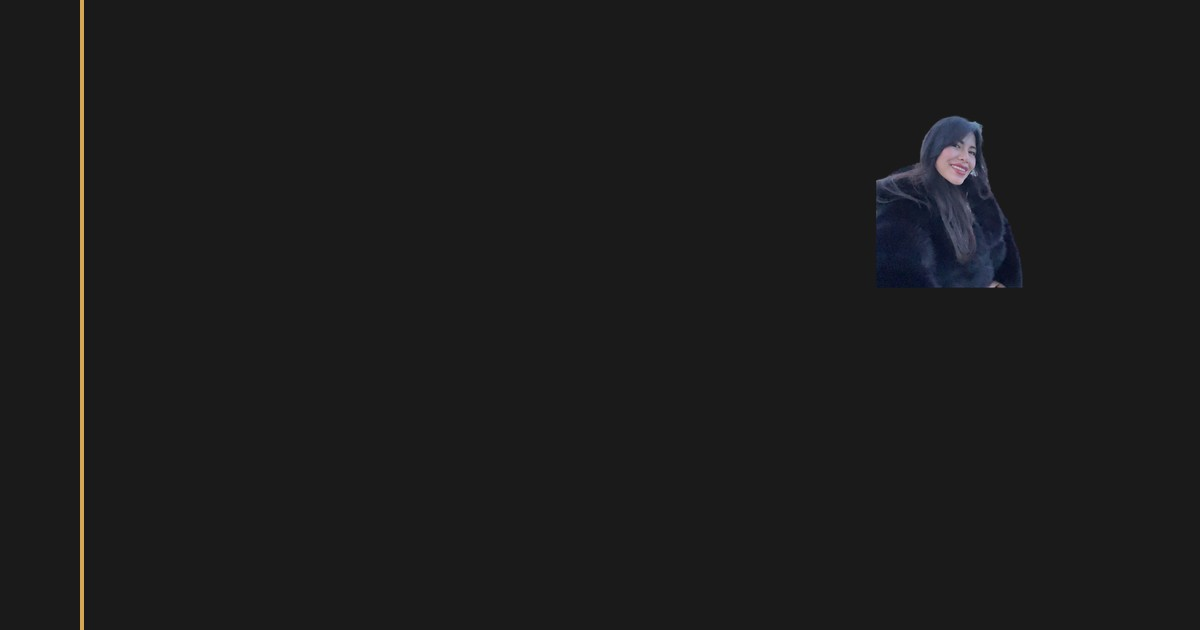
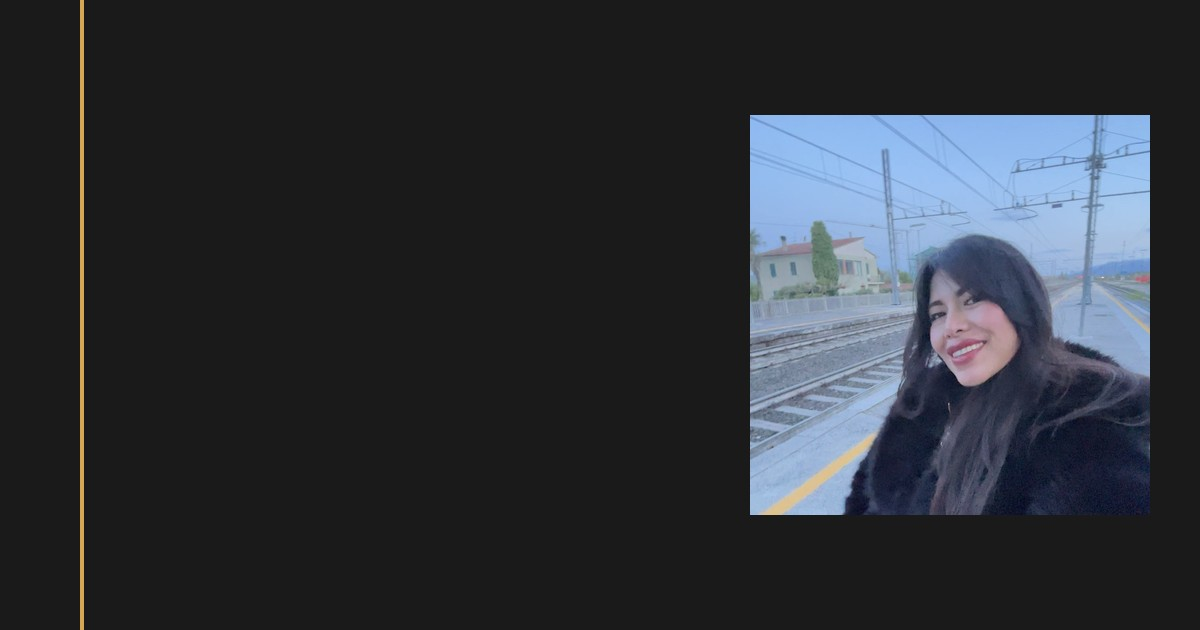
Updates

Changed region(s): [[0.6167, 0.181, 0.9558, 0.8444]]

diff --git a/index.html b/index.html
@@ -1,6 +1,6 @@
 <!DOCTYPE html><html lang="it" style="--color-primary-dark:#1A1A1A;--color-primary:#8B7355;--color-primary-light:#C4A77D;--color-accent:#D4A853;--color-surface:#F5F0E8;--color-surface-light:#FAF7F2"> <head><meta charset="utf-8"><link rel="icon" type="image/svg+xml" href="/favicon.svg"><meta name="viewport" content="width=device-width"><meta name="generator" content="Astro v5.17.1"><meta name="description" content="Drusila Miranda — Strategia creativa, UGC e Meta Ads per far crescere il tuo brand in Italia e America Latina."><!-- Open Graph --><meta property="og:title" content="Drusila Miranda — Creative Strategist &#38; UGC Creator"><meta property="og:description" content="Drusila Miranda — Strategia creativa, UGC e Meta Ads per far crescere il tuo brand in Italia e America Latina."><meta property="og:type" content="website"><meta property="og:image" content="/og.jpg"><!-- Fonts: Playfair Display + Inter --><link rel="preconnect" href="https://fonts.googleapis.com"><link rel="preconnect" href="https://fonts.gstatic.com" crossorigin><link href="https://fonts.googleapis.com/css2?family=Inter:wght@300;400;500;600;700&family=Playfair+Display:ital,wght@0,400;0,500;0,600;0,700;0,800;1,400;1,500;1,600&display=swap" rel="stylesheet"><title>Drusila Miranda — Creative Strategist &amp; UGC Creator</title><link rel="stylesheet" href="/_astro/index.CY908Prx.css"></head> <body class="bg-[var(--color-surface-light)]"> <!-- Floating pill nav — appears on scroll --><nav id="floating-nav" class="fixed top-0 left-1/2 -translate-x-1/2 z-50 hidden opacity-0"> <div class="mt-4 px-6 py-3 rounded-full border border-[var(--color-primary-light)]/30 bg-[var(--color-surface-light)]/90 backdrop-blur-md shadow-lg flex items-center gap-6"> <a href="#" class="font-['Playfair_Display',serif] font-bold text-[var(--color-primary-dark)] text-sm">DM</a> <div class="hidden sm:flex items-center gap-4 text-sm text-[var(--color-primary)]"> <a href="#servizi" class="link-underline hover:text-[var(--color-primary-dark)] transition-colors" data-lang data-it="Servizi" data-es="Servicios">Servizi</a> <a href="#metodo" class="link-underline hover:text-[var(--color-primary-dark)] transition-colors" data-lang data-it="Metodo" data-es="Método">Metodo</a> <a href="#portfolio" class="link-underline hover:text-[var(--color-primary-dark)] transition-colors">Portfolio</a> <a href="#contatto" class="link-underline hover:text-[var(--color-primary-dark)] transition-colors" data-lang data-it="Contatto" data-es="Contacto">Contatto</a> </div> <!-- Language Toggle --> <button id="lang-toggle" class="ml-2 flex items-center gap-1 text-xs font-semibold border border-[var(--color-primary-light)]/40 rounded-full px-3 py-1 hover:border-[var(--color-accent)] transition-colors"> <span id="lang-label-it" class="text-[var(--color-accent)]">IT</span> <span class="text-[var(--color-primary-light)]">/</span> <span id="lang-label-es" class="text-[var(--color-primary)]">ES</span> </button> </div> </nav> <script type="module">const a=document.getElementById("floating-nav");window.addEventListener("scroll",()=>{window.scrollY>400?(a?.classList.remove("hidden"),a?.classList.add("header-visible")):(a?.classList.add("hidden"),a?.classList.remove("header-visible"))});let t="it";const o=document.getElementById("lang-toggle"),s=document.getElementById("lang-label-it"),c=document.getElementById("lang-label-es");o?.addEventListener("click",()=>{document.body.classList.add("lang-switching"),setTimeout(()=>{t=t==="it"?"es":"it",document.querySelectorAll("[data-lang]").forEach(e=>{const l=e.getAttribute("data-it"),n=e.getAttribute("data-es");l&&n&&(e.textContent=t==="it"?l:n)}),s&&c&&(s.className=t==="it"?"text-[var(--color-accent)]":"text-[var(--color-primary)]",c.className=t==="es"?"text-[var(--color-accent)]":"text-[var(--color-primary)]"),document.documentElement.lang=t,document.body.classList.remove("lang-switching")},200)});</script> <main> <section id="hero" class="min-h-screen flex items-center bg-[var(--color-surface-light)] relative overflow-hidden"> <!-- Subtle gold gradient accent --> <div class="absolute top-0 right-0 w-1/2 h-full bg-gradient-to-l from-[var(--color-surface)] to-transparent opacity-60 pointer-events-none"></div> <div class="max-w-6xl mx-auto px-6 py-20 md:py-0 w-full"> <div class="grid md:grid-cols-2 gap-12 md:gap-16 items-center"> <!-- Text column --> <div class="order-2 md:order-1"> <!-- Inline lang toggle for mobile (before scroll) --> <div class="mb-8 md:mb-10"> <button id="hero-lang-toggle" class="flex items-center gap-1 text-xs font-semibold border border-[var(--color-primary-light)]/40 rounded-full px-4 py-1.5 hover:border-[var(--color-accent)] transition-colors hero-cta"> <span class="hero-lang-it text-[var(--color-accent)]">IT</span> <span class="text-[var(--color-primary-light)]">/</span> <span class="hero-lang-es text-[var(--color-primary)]">ES</span> </button> </div> <p class="text-[var(--color-primary)] text-sm tracking-widest uppercase mb-3 hero-subtitle">Creative Strategist & UGC Creator</p> <h1 class="font-['Playfair_Display',serif] text-4xl sm:text-5xl md:text-6xl font-bold text-[var(--color-primary-dark)] leading-tight mb-6 hero-title">
 Drusila<br>Miranda
-</h1> <p class="font-['Playfair_Display',serif] italic text-lg md:text-xl text-[var(--color-primary)] mb-8 hero-tagline" data-lang data-it="Strategia e creatività per far crescere il tuo brand." data-es="Estrategia y creatividad para hacer crecer tu marca."> Strategia e creatività per far crescere il tuo brand. </p> <a href="#contatto" class="inline-flex items-center gap-2 bg-[var(--color-primary-dark)] text-[var(--color-surface-light)] px-8 py-3.5 rounded-full text-sm font-medium tracking-wide btn-hover hero-cta hover:bg-[var(--color-accent)] transition-colors"> <span data-lang data-it="Parliamo" data-es="Hablemos">Parliamo</span> <svg class="w-4 h-4" fill="none" stroke="currentColor" viewBox="0 0 24 24"><path stroke-linecap="round" stroke-linejoin="round" stroke-width="2" d="M17 8l4 4m0 0l-4 4m4-4H3"></path></svg> </a> <!-- Social row --> <div class="flex items-center gap-4 mt-8 hero-cta"> <a href="https://instagram.com/drusilla_miranda" target="_blank" rel="noopener" class="text-[var(--color-primary)] hover:text-[var(--color-accent)] transition-colors" aria-label="Instagram"> <svg class="w-5 h-5" fill="currentColor" viewBox="0 0 24 24"><path d="M12 2.163c3.204 0 3.584.012 4.85.07 3.252.148 4.771 1.691 4.919 4.919.058 1.265.069 1.645.069 4.849 0 3.205-.012 3.584-.069 4.849-.149 3.225-1.664 4.771-4.919 4.919-1.266.058-1.644.07-4.85.07-3.204 0-3.584-.012-4.849-.07-3.26-.149-4.771-1.699-4.919-4.92-.058-1.265-.07-1.644-.07-4.849 0-3.204.013-3.583.07-4.849.149-3.227 1.664-4.771 4.919-4.919 1.266-.057 1.645-.069 4.849-.069zM12 0C8.741 0 8.333.014 7.053.072 2.695.272.273 2.69.073 7.052.014 8.333 0 8.741 0 12c0 3.259.014 3.668.072 4.948.2 4.358 2.618 6.78 6.98 6.98C8.333 23.986 8.741 24 12 24c3.259 0 3.668-.014 4.948-.072 4.354-.2 6.782-2.618 6.979-6.98.059-1.28.073-1.689.073-4.948 0-3.259-.014-3.667-.072-4.947-.196-4.354-2.617-6.78-6.979-6.98C15.668.014 15.259 0 12 0zm0 5.838a6.162 6.162 0 100 12.324 6.162 6.162 0 000-12.324zM12 16a4 4 0 110-8 4 4 0 010 8zm6.406-11.845a1.44 1.44 0 100 2.881 1.44 1.44 0 000-2.881z"></path></svg> </a> <a href="https://tiktok.com/@pameladlcm" target="_blank" rel="noopener" class="text-[var(--color-primary)] hover:text-[var(--color-accent)] transition-colors" aria-label="TikTok"> <svg class="w-5 h-5" fill="currentColor" viewBox="0 0 24 24"><path d="M19.59 6.69a4.83 4.83 0 01-3.77-4.25V2h-3.45v13.67a2.89 2.89 0 01-2.88 2.5 2.89 2.89 0 01-2.89-2.89 2.89 2.89 0 012.89-2.89c.28 0 .54.04.79.1v-3.5a6.37 6.37 0 00-.79-.05A6.34 6.34 0 003.15 15.2a6.34 6.34 0 0010.86 4.48V13a8.28 8.28 0 005.58 2.16v-3.45a4.85 4.85 0 01-2.65-.78l.01.01v-4.25h2.64z"></path></svg> </a> <a href="mailto:Drusilamiranda.creator@gmail.com" class="text-[var(--color-primary)] hover:text-[var(--color-accent)] transition-colors" aria-label="Email"> <svg class="w-5 h-5" fill="none" stroke="currentColor" viewBox="0 0 24 24"><path stroke-linecap="round" stroke-linejoin="round" stroke-width="2" d="M3 8l7.89 5.26a2 2 0 002.22 0L21 8M5 19h14a2 2 0 002-2V7a2 2 0 00-2-2H5a2 2 0 00-2 2v10a2 2 0 002 2z"></path></svg> </a> </div> </div> <!-- Photo column --> <div class="order-1 md:order-2 flex justify-center"> <div class="relative hero-photo"> <div class="w-64 h-64 sm:w-72 sm:h-72 md:w-80 md:h-80 rounded-full overflow-hidden photo-ring"> <img src="/profile.png" alt="Drusila Miranda" class="w-full h-full object-cover" loading="eager"> </div> <!-- Decorative gold dot --> <div class="absolute -bottom-2 -right-2 w-6 h-6 rounded-full bg-[var(--color-accent)]"></div> </div> </div> </div> </div> </section> <script type="module">const o=document.getElementById("hero-lang-toggle");let t="it";o?.addEventListener("click",()=>{const n=document.getElementById("lang-toggle");n?n.click():(document.body.classList.add("lang-switching"),setTimeout(()=>{t=t==="it"?"es":"it",document.querySelectorAll("[data-lang]").forEach(e=>{const i=e.getAttribute("data-it"),r=e.getAttribute("data-es");i&&r&&(e.textContent=t==="it"?i:r)}),document.documentElement.lang=t,document.body.classList.remove("lang-switching")},200));const a=o?.querySelector(".hero-lang-it"),c=o?.querySelector(".hero-lang-es"),l=t==="it"?"es":"it";a&&(a.className=`hero-lang-it ${l==="it"?"text-[var(--color-accent)]":"text-[var(--color-primary)]"}`),c&&(c.className=`hero-lang-es ${l==="es"?"text-[var(--color-accent)]":"text-[var(--color-primary)]"}`)});</script> <section id="chi-sono" class="py-20 md:py-28 bg-white"> <div class="max-w-5xl mx-auto px-6"> <div class="grid md:grid-cols-3 gap-10 md:gap-16 items-start"> <!-- Title column --> <div class="reveal-left"> <p class="text-[var(--color-accent)] text-xs tracking-widest uppercase mb-3 font-semibold" data-lang data-it="Chi Sono" data-es="Sobre Mí">Chi Sono</p> <div class="w-12 h-0.5 bar-shimmer rounded-full"></div> </div> <!-- Bio column --> <div class="md:col-span-1 reveal stagger-1"> <p class="text-[var(--color-primary-dark)]/80 leading-relaxed text-base" data-lang data-it="Sono una creative strategist e content creator peruviana che vive in Italia. Unisco la creatività latina con la raffinatezza europea per creare strategie di comunicazione che connettono brand e persone. Creo contenuti autentici, gestisco campagne Meta Ads e sviluppo strategie creative per aziende che vogliono crescere nei mercati italiano e latinoamericano." data-es="Soy una estratega creativa y creadora de contenido peruana que vive en Italia. Combino la creatividad latina con la sofisticación europea para crear estrategias de comunicación que conectan marcas con personas. Creo contenido auténtico, gestiono campañas de Meta Ads y desarrollo estrategias creativas para empresas que quieren crecer en los mercados italiano y latinoamericano."> Sono una creative strategist e content creator peruviana che vive in Italia. Unisco la creatività latina con la raffinatezza europea per creare strategie di comunicazione che connettono brand e persone. Creo contenuti autentici, gestisco campagne Meta Ads e sviluppo strategie creative per aziende che vogliono crescere nei mercati italiano e latinoamericano. </p> </div> <!-- Quote column --> <div class="reveal-right stagger-2"> <blockquote class="quote-float border-l-2 border-[var(--color-accent)] pl-5"> <p class="font-['Playfair_Display',serif] italic text-lg text-[var(--color-primary)] leading-relaxed" data-lang data-it="Due culture, una visione: far brillare il tuo brand." data-es="Dos culturas, una visión: hacer brillar tu marca.">
+</h1> <p class="font-['Playfair_Display',serif] italic text-lg md:text-xl text-[var(--color-primary)] mb-8 hero-tagline" data-lang data-it="Strategia e creatività per far crescere il tuo brand." data-es="Estrategia y creatividad para hacer crecer tu marca."> Strategia e creatività per far crescere il tuo brand. </p> <a href="#contatto" class="inline-flex items-center gap-2 bg-[var(--color-primary-dark)] text-[var(--color-surface-light)] px-8 py-3.5 rounded-full text-sm font-medium tracking-wide btn-hover hero-cta hover:bg-[var(--color-accent)] transition-colors"> <span data-lang data-it="Parliamo" data-es="Hablemos">Parliamo</span> <svg class="w-4 h-4" fill="none" stroke="currentColor" viewBox="0 0 24 24"><path stroke-linecap="round" stroke-linejoin="round" stroke-width="2" d="M17 8l4 4m0 0l-4 4m4-4H3"></path></svg> </a> <!-- Social row --> <div class="flex items-center gap-4 mt-8 hero-cta"> <a href="https://instagram.com/drusilla_miranda" target="_blank" rel="noopener" class="text-[var(--color-primary)] hover:text-[var(--color-accent)] transition-colors" aria-label="Instagram"> <svg class="w-5 h-5" fill="currentColor" viewBox="0 0 24 24"><path d="M12 2.163c3.204 0 3.584.012 4.85.07 3.252.148 4.771 1.691 4.919 4.919.058 1.265.069 1.645.069 4.849 0 3.205-.012 3.584-.069 4.849-.149 3.225-1.664 4.771-4.919 4.919-1.266.058-1.644.07-4.85.07-3.204 0-3.584-.012-4.849-.07-3.26-.149-4.771-1.699-4.919-4.92-.058-1.265-.07-1.644-.07-4.849 0-3.204.013-3.583.07-4.849.149-3.227 1.664-4.771 4.919-4.919 1.266-.057 1.645-.069 4.849-.069zM12 0C8.741 0 8.333.014 7.053.072 2.695.272.273 2.69.073 7.052.014 8.333 0 8.741 0 12c0 3.259.014 3.668.072 4.948.2 4.358 2.618 6.78 6.98 6.98C8.333 23.986 8.741 24 12 24c3.259 0 3.668-.014 4.948-.072 4.354-.2 6.782-2.618 6.979-6.98.059-1.28.073-1.689.073-4.948 0-3.259-.014-3.667-.072-4.947-.196-4.354-2.617-6.78-6.979-6.98C15.668.014 15.259 0 12 0zm0 5.838a6.162 6.162 0 100 12.324 6.162 6.162 0 000-12.324zM12 16a4 4 0 110-8 4 4 0 010 8zm6.406-11.845a1.44 1.44 0 100 2.881 1.44 1.44 0 000-2.881z"></path></svg> </a> <a href="https://tiktok.com/@pameladlcm" target="_blank" rel="noopener" class="text-[var(--color-primary)] hover:text-[var(--color-accent)] transition-colors" aria-label="TikTok"> <svg class="w-5 h-5" fill="currentColor" viewBox="0 0 24 24"><path d="M19.59 6.69a4.83 4.83 0 01-3.77-4.25V2h-3.45v13.67a2.89 2.89 0 01-2.88 2.5 2.89 2.89 0 01-2.89-2.89 2.89 2.89 0 012.89-2.89c.28 0 .54.04.79.1v-3.5a6.37 6.37 0 00-.79-.05A6.34 6.34 0 003.15 15.2a6.34 6.34 0 0010.86 4.48V13a8.28 8.28 0 005.58 2.16v-3.45a4.85 4.85 0 01-2.65-.78l.01.01v-4.25h2.64z"></path></svg> </a> <a href="mailto:Drusilamiranda.creator@gmail.com" class="text-[var(--color-primary)] hover:text-[var(--color-accent)] transition-colors" aria-label="Email"> <svg class="w-5 h-5" fill="none" stroke="currentColor" viewBox="0 0 24 24"><path stroke-linecap="round" stroke-linejoin="round" stroke-width="2" d="M3 8l7.89 5.26a2 2 0 002.22 0L21 8M5 19h14a2 2 0 002-2V7a2 2 0 00-2-2H5a2 2 0 00-2 2v10a2 2 0 002 2z"></path></svg> </a> </div> </div> <!-- Photo column --> <div class="order-1 md:order-2 flex justify-center"> <div class="relative hero-photo"> <div class="w-64 h-64 sm:w-72 sm:h-72 md:w-80 md:h-80 rounded-full overflow-hidden photo-ring"> <img src="/profile.jpg" alt="Drusila Miranda" class="w-full h-full object-cover" loading="eager"> </div> <!-- Decorative gold dot --> <div class="absolute -bottom-2 -right-2 w-6 h-6 rounded-full bg-[var(--color-accent)]"></div> </div> </div> </div> </div> </section> <script type="module">const o=document.getElementById("hero-lang-toggle");let t="it";o?.addEventListener("click",()=>{const n=document.getElementById("lang-toggle");n?n.click():(document.body.classList.add("lang-switching"),setTimeout(()=>{t=t==="it"?"es":"it",document.querySelectorAll("[data-lang]").forEach(e=>{const i=e.getAttribute("data-it"),r=e.getAttribute("data-es");i&&r&&(e.textContent=t==="it"?i:r)}),document.documentElement.lang=t,document.body.classList.remove("lang-switching")},200));const a=o?.querySelector(".hero-lang-it"),c=o?.querySelector(".hero-lang-es"),l=t==="it"?"es":"it";a&&(a.className=`hero-lang-it ${l==="it"?"text-[var(--color-accent)]":"text-[var(--color-primary)]"}`),c&&(c.className=`hero-lang-es ${l==="es"?"text-[var(--color-accent)]":"text-[var(--color-primary)]"}`)});</script> <section id="chi-sono" class="py-20 md:py-28 bg-white"> <div class="max-w-5xl mx-auto px-6"> <div class="grid md:grid-cols-3 gap-10 md:gap-16 items-start"> <!-- Title column --> <div class="reveal-left"> <p class="text-[var(--color-accent)] text-xs tracking-widest uppercase mb-3 font-semibold" data-lang data-it="Chi Sono" data-es="Sobre Mí">Chi Sono</p> <div class="w-12 h-0.5 bar-shimmer rounded-full"></div> </div> <!-- Bio column --> <div class="md:col-span-1 reveal stagger-1"> <p class="text-[var(--color-primary-dark)]/80 leading-relaxed text-base" data-lang data-it="Sono una creative strategist e content creator peruviana che vive in Italia. Unisco la creatività latina con la raffinatezza europea per creare strategie di comunicazione che connettono brand e persone. Creo contenuti autentici, gestisco campagne Meta Ads e sviluppo strategie creative per aziende che vogliono crescere nei mercati italiano e latinoamericano." data-es="Soy una estratega creativa y creadora de contenido peruana que vive en Italia. Combino la creatividad latina con la sofisticación europea para crear estrategias de comunicación que conectan marcas con personas. Creo contenido auténtico, gestiono campañas de Meta Ads y desarrollo estrategias creativas para empresas que quieren crecer en los mercados italiano y latinoamericano."> Sono una creative strategist e content creator peruviana che vive in Italia. Unisco la creatività latina con la raffinatezza europea per creare strategie di comunicazione che connettono brand e persone. Creo contenuti autentici, gestisco campagne Meta Ads e sviluppo strategie creative per aziende che vogliono crescere nei mercati italiano e latinoamericano. </p> </div> <!-- Quote column --> <div class="reveal-right stagger-2"> <blockquote class="quote-float border-l-2 border-[var(--color-accent)] pl-5"> <p class="font-['Playfair_Display',serif] italic text-lg text-[var(--color-primary)] leading-relaxed" data-lang data-it="Due culture, una visione: far brillare il tuo brand." data-es="Dos culturas, una visión: hacer brillar tu marca.">
 "Due culture, una visione: far brillare il tuo brand."
 </p> <cite class="block mt-3 text-sm text-[var(--color-primary-light)] not-italic">— Drusila Miranda</cite> </blockquote> </div> </div> </div> </section> <section id="servizi" class="py-20 md:py-28 bg-[var(--color-surface)]"> <div class="max-w-5xl mx-auto px-6"> <!-- Section header --> <div class="mb-14 reveal"> <p class="text-[var(--color-accent)] text-xs tracking-widest uppercase mb-3 font-semibold" data-lang data-it="Servizi" data-es="Servicios">Servizi</p> <div class="w-12 h-0.5 bar-shimmer rounded-full"></div> </div> <!-- Service cards --> <div class="grid md:grid-cols-3 gap-8"> <div class="group reveal stagger-1 card-hover bg-white rounded-xl p-8 border border-[var(--color-surface)] hover:border-[var(--color-accent)]"> <!-- Number --> <span class="block font-['Playfair_Display',serif] text-4xl font-bold text-[var(--color-accent)]/20 mb-4 group-hover:text-[var(--color-accent)]/40 transition-colors"> 01 </span> <!-- Title --> <h3 class="font-['Playfair_Display',serif] text-xl font-bold text-[var(--color-primary-dark)] mb-3" data-lang data-it="Strategia Creativa" data-es="Estrategia Creativa"> Strategia Creativa </h3> <!-- Description --> <p class="text-sm text-[var(--color-primary)] leading-relaxed mb-5" data-lang data-it="Analizzo il tuo brand, il mercato e il pubblico per creare una strategia di comunicazione su misura che ti differenzi." data-es="Analizo tu marca, el mercado y la audiencia para crear una estrategia de comunicación a medida que te diferencie."> Analizzo il tuo brand, il mercato e il pubblico per creare una strategia di comunicazione su misura che ti differenzi. </p> <!-- Items --> <ul class="space-y-2"> <li class="flex items-center gap-2 text-sm text-[var(--color-primary-dark)]/70"> <span class="w-1.5 h-1.5 rounded-full bg-[var(--color-accent)] shrink-0"></span> <span data-lang data-it="Brand audit" data-es="Auditoría de marca">Brand audit</span> </li><li class="flex items-center gap-2 text-sm text-[var(--color-primary-dark)]/70"> <span class="w-1.5 h-1.5 rounded-full bg-[var(--color-accent)] shrink-0"></span> <span data-lang data-it="Piano editoriale" data-es="Plan editorial">Piano editoriale</span> </li><li class="flex items-center gap-2 text-sm text-[var(--color-primary-dark)]/70"> <span class="w-1.5 h-1.5 rounded-full bg-[var(--color-accent)] shrink-0"></span> <span data-lang data-it="Posizionamento" data-es="Posicionamiento">Posizionamento</span> </li><li class="flex items-center gap-2 text-sm text-[var(--color-primary-dark)]/70"> <span class="w-1.5 h-1.5 rounded-full bg-[var(--color-accent)] shrink-0"></span> <span data-lang data-it="Tone of voice" data-es="Tono de voz">Tone of voice</span> </li> </ul> </div><div class="group reveal stagger-2 card-hover bg-white rounded-xl p-8 border border-[var(--color-surface)] hover:border-[var(--color-accent)]"> <!-- Number --> <span class="block font-['Playfair_Display',serif] text-4xl font-bold text-[var(--color-accent)]/20 mb-4 group-hover:text-[var(--color-accent)]/40 transition-colors"> 02 </span> <!-- Title --> <h3 class="font-['Playfair_Display',serif] text-xl font-bold text-[var(--color-primary-dark)] mb-3" data-lang data-it="UGC Content" data-es="Contenido UGC"> UGC Content </h3> <!-- Description --> <p class="text-sm text-[var(--color-primary)] leading-relaxed mb-5" data-lang data-it="Creo contenuti autentici che parlano al tuo pubblico. Video, foto e storie che generano fiducia e conversioni." data-es="Creo contenido auténtico que habla a tu público. Videos, fotos e historias que generan confianza y conversiones."> Creo contenuti autentici che parlano al tuo pubblico. Video, foto e storie che generano fiducia e conversioni. </p> <!-- Items --> <ul class="space-y-2"> <li class="flex items-center gap-2 text-sm text-[var(--color-primary-dark)]/70"> <span class="w-1.5 h-1.5 rounded-full bg-[var(--color-accent)] shrink-0"></span> <span data-lang data-it="Video UGC" data-es="Video UGC">Video UGC</span> </li><li class="flex items-center gap-2 text-sm text-[var(--color-primary-dark)]/70"> <span class="w-1.5 h-1.5 rounded-full bg-[var(--color-accent)] shrink-0"></span> <span data-lang data-it="Storytelling visivo" data-es="Storytelling visual">Storytelling visivo</span> </li><li class="flex items-center gap-2 text-sm text-[var(--color-primary-dark)]/70"> <span class="w-1.5 h-1.5 rounded-full bg-[var(--color-accent)] shrink-0"></span> <span data-lang data-it="Contenuti social" data-es="Contenido social">Contenuti social</span> </li><li class="flex items-center gap-2 text-sm text-[var(--color-primary-dark)]/70"> <span class="w-1.5 h-1.5 rounded-full bg-[var(--color-accent)] shrink-0"></span> <span data-lang data-it="Reels &#38; TikTok" data-es="Reels &#38; TikTok">Reels &amp; TikTok</span> </li> </ul> </div><div class="group reveal stagger-3 card-hover bg-white rounded-xl p-8 border border-[var(--color-surface)] hover:border-[var(--color-accent)]"> <!-- Number --> <span class="block font-['Playfair_Display',serif] text-4xl font-bold text-[var(--color-accent)]/20 mb-4 group-hover:text-[var(--color-accent)]/40 transition-colors"> 03 </span> <!-- Title --> <h3 class="font-['Playfair_Display',serif] text-xl font-bold text-[var(--color-primary-dark)] mb-3" data-lang data-it="Meta Ads" data-es="Meta Ads"> Meta Ads </h3> <!-- Description --> <p class="text-sm text-[var(--color-primary)] leading-relaxed mb-5" data-lang data-it="Gestisco campagne pubblicitarie su Facebook e Instagram ottimizzate per risultati reali: lead, vendite, visibilità." data-es="Gestiono campañas publicitarias en Facebook e Instagram optimizadas para resultados reales: leads, ventas, visibilidad."> Gestisco campagne pubblicitarie su Facebook e Instagram ottimizzate per risultati reali: lead, vendite, visibilità. </p> <!-- Items --> <ul class="space-y-2"> <li class="flex items-center gap-2 text-sm text-[var(--color-primary-dark)]/70"> <span class="w-1.5 h-1.5 rounded-full bg-[var(--color-accent)] shrink-0"></span> <span data-lang data-it="Facebook Ads" data-es="Facebook Ads">Facebook Ads</span> </li><li class="flex items-center gap-2 text-sm text-[var(--color-primary-dark)]/70"> <span class="w-1.5 h-1.5 rounded-full bg-[var(--color-accent)] shrink-0"></span> <span data-lang data-it="Instagram Ads" data-es="Instagram Ads">Instagram Ads</span> </li><li class="flex items-center gap-2 text-sm text-[var(--color-primary-dark)]/70"> <span class="w-1.5 h-1.5 rounded-full bg-[var(--color-accent)] shrink-0"></span> <span data-lang data-it="A/B Testing" data-es="A/B Testing">A/B Testing</span> </li><li class="flex items-center gap-2 text-sm text-[var(--color-primary-dark)]/70"> <span class="w-1.5 h-1.5 rounded-full bg-[var(--color-accent)] shrink-0"></span> <span data-lang data-it="Report &#38; Analisi" data-es="Reportes &#38; Análisis">Report &amp; Analisi</span> </li> </ul> </div> </div> </div> </section> <section id="metodo" class="py-20 md:py-28 bg-white"> <div class="max-w-5xl mx-auto px-6"> <!-- Section header --> <div class="mb-14 reveal"> <p class="text-[var(--color-accent)] text-xs tracking-widest uppercase mb-3 font-semibold" data-lang data-it="Il Mio Metodo" data-es="Mi Método">Il Mio Metodo</p> <div class="w-12 h-0.5 bar-shimmer rounded-full"></div> </div> <!-- Steps --> <div class="relative"> <!-- Vertical gold line (desktop) --> <div class="hidden md:block absolute left-[39px] top-4 bottom-4 w-px bg-gradient-to-b from-[var(--color-accent)] via-[var(--color-primary-light)] to-[var(--color-accent)]/20"></div> <div class="space-y-10 md:space-y-12"> <div class="reveal stagger-1 flex gap-6 md:gap-10 items-start"> <!-- Number circle --> <div class="shrink-0 w-20 h-20 rounded-full border-2 border-[var(--color-accent)] flex items-center justify-center bg-white relative z-10"> <span class="font-['Playfair_Display',serif] text-2xl font-bold text-[var(--color-accent)]">01</span> </div> <!-- Content --> <div class="pt-4"> <h3 class="font-['Playfair_Display',serif] text-xl md:text-2xl font-bold text-[var(--color-primary-dark)] mb-2" data-lang data-it="Analisi" data-es="Análisis"> Analisi </h3> <p class="text-sm md:text-base text-[var(--color-primary)] leading-relaxed max-w-lg" data-lang data-it="Studio il tuo brand, il mercato e i competitor per capire dove sei e dove vuoi arrivare." data-es="Estudio tu marca, el mercado y los competidores para entender dónde estás y a dónde quieres llegar."> Studio il tuo brand, il mercato e i competitor per capire dove sei e dove vuoi arrivare. </p> </div> </div><div class="reveal stagger-2 flex gap-6 md:gap-10 items-start"> <!-- Number circle --> <div class="shrink-0 w-20 h-20 rounded-full border-2 border-[var(--color-accent)] flex items-center justify-center bg-white relative z-10"> <span class="font-['Playfair_Display',serif] text-2xl font-bold text-[var(--color-accent)]">02</span> </div> <!-- Content --> <div class="pt-4"> <h3 class="font-['Playfair_Display',serif] text-xl md:text-2xl font-bold text-[var(--color-primary-dark)] mb-2" data-lang data-it="Strategia" data-es="Estrategia"> Strategia </h3> <p class="text-sm md:text-base text-[var(--color-primary)] leading-relaxed max-w-lg" data-lang data-it="Creo un piano d'azione personalizzato con obiettivi chiari e KPI misurabili." data-es="Creo un plan de acción personalizado con objetivos claros y KPIs medibles."> Creo un piano d&#39;azione personalizzato con obiettivi chiari e KPI misurabili. </p> </div> </div><div class="reveal stagger-3 flex gap-6 md:gap-10 items-start"> <!-- Number circle --> <div class="shrink-0 w-20 h-20 rounded-full border-2 border-[var(--color-accent)] flex items-center justify-center bg-white relative z-10"> <span class="font-['Playfair_Display',serif] text-2xl font-bold text-[var(--color-accent)]">03</span> </div> <!-- Content --> <div class="pt-4"> <h3 class="font-['Playfair_Display',serif] text-xl md:text-2xl font-bold text-[var(--color-primary-dark)] mb-2" data-lang data-it="Creazione" data-es="Creación"> Creazione </h3> <p class="text-sm md:text-base text-[var(--color-primary)] leading-relaxed max-w-lg" data-lang data-it="Produco contenuti e campagne che raccontano la tua storia in modo autentico." data-es="Produzco contenido y campañas que cuentan tu historia de forma auténtica."> Produco contenuti e campagne che raccontano la tua storia in modo autentico. </p> </div> </div><div class="reveal stagger-4 flex gap-6 md:gap-10 items-start"> <!-- Number circle --> <div class="shrink-0 w-20 h-20 rounded-full border-2 border-[var(--color-accent)] flex items-center justify-center bg-white relative z-10"> <span class="font-['Playfair_Display',serif] text-2xl font-bold text-[var(--color-accent)]">04</span> </div> <!-- Content --> <div class="pt-4"> <h3 class="font-['Playfair_Display',serif] text-xl md:text-2xl font-bold text-[var(--color-primary-dark)] mb-2" data-lang data-it="Ottimizzazione" data-es="Optimización"> Ottimizzazione </h3> <p class="text-sm md:text-base text-[var(--color-primary)] leading-relaxed max-w-lg" data-lang data-it="Monitoro i risultati e ottimizzo continuamente per massimizzare il ritorno." data-es="Monitoreo los resultados y optimizo continuamente para maximizar el retorno."> Monitoro i risultati e ottimizzo continuamente per massimizzare il ritorno. </p> </div> </div> </div> </div> </div> </section> <section id="portfolio" class="py-20 md:py-28 bg-[var(--color-surface)]"> <div class="max-w-5xl mx-auto px-6"> <!-- Section header --> <div class="mb-14 reveal"> <p class="text-[var(--color-accent)] text-xs tracking-widest uppercase mb-3 font-semibold">Portfolio</p> <div class="w-12 h-0.5 bar-shimmer rounded-full"></div> </div> <!-- Coming Soon placeholder (elegant) --> <div class="reveal stagger-1"> <div class="max-w-xl mx-auto text-center py-16 px-8 border border-dashed border-[var(--color-primary-light)]/40 rounded-2xl bg-white/50"> <!-- Decorative gold diamond --> <div class="mb-6 flex justify-center"> <div class="w-3 h-3 rotate-45 bg-[var(--color-accent)]"></div> </div> <h3 class="font-['Playfair_Display',serif] italic text-2xl text-[var(--color-primary)] mb-4" data-lang data-it="In Arrivo" data-es="Próximamente">
 In Arrivo
